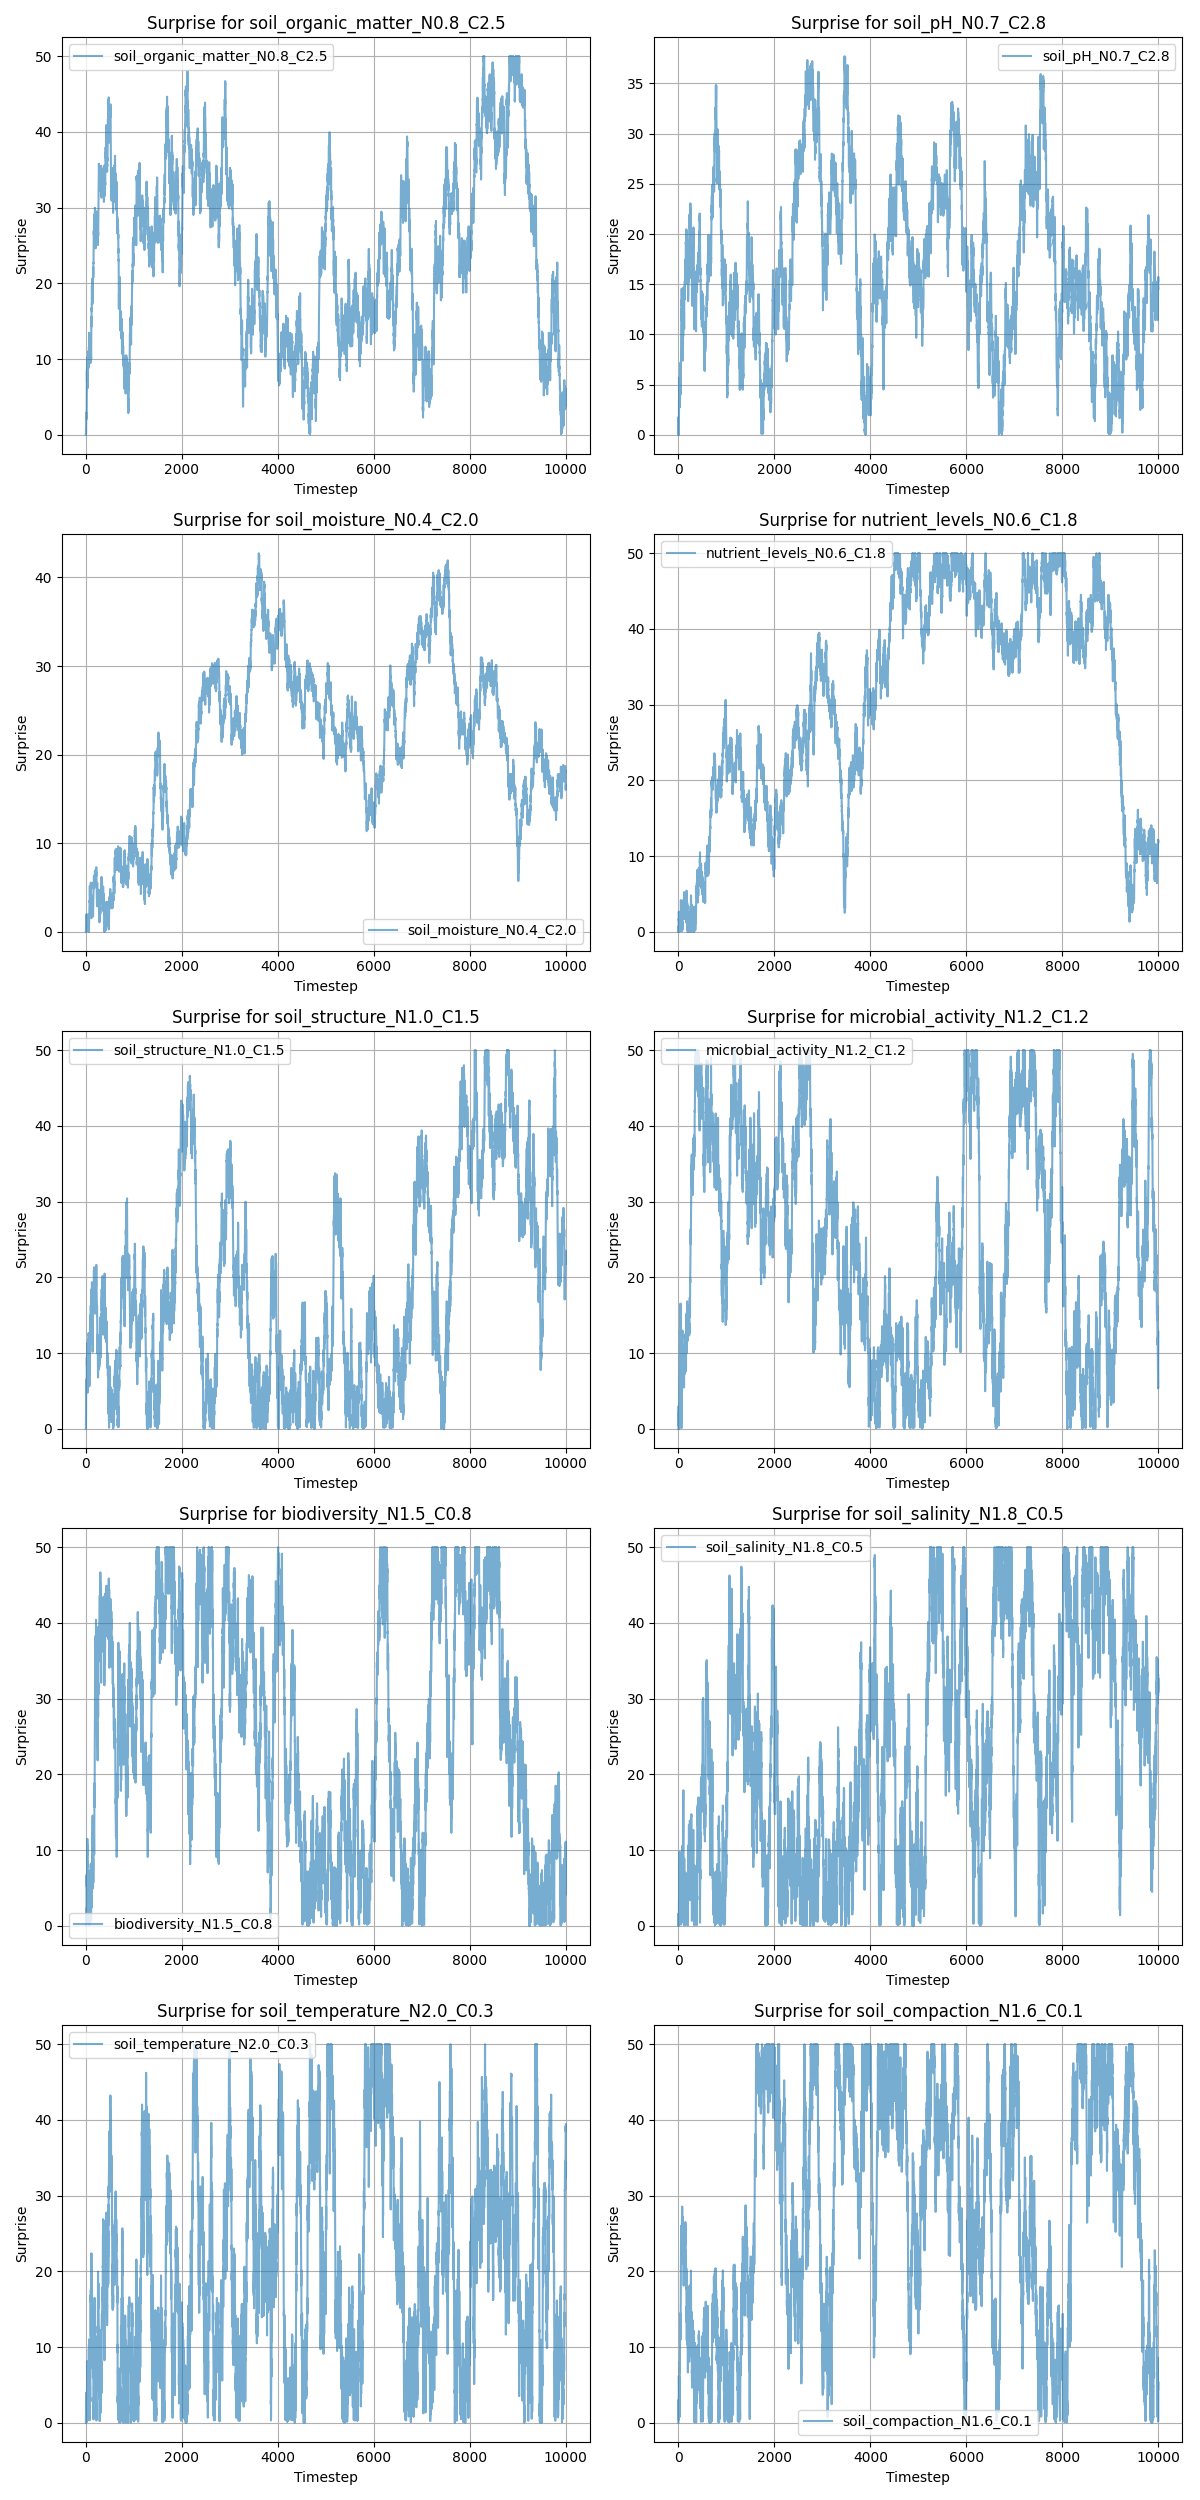
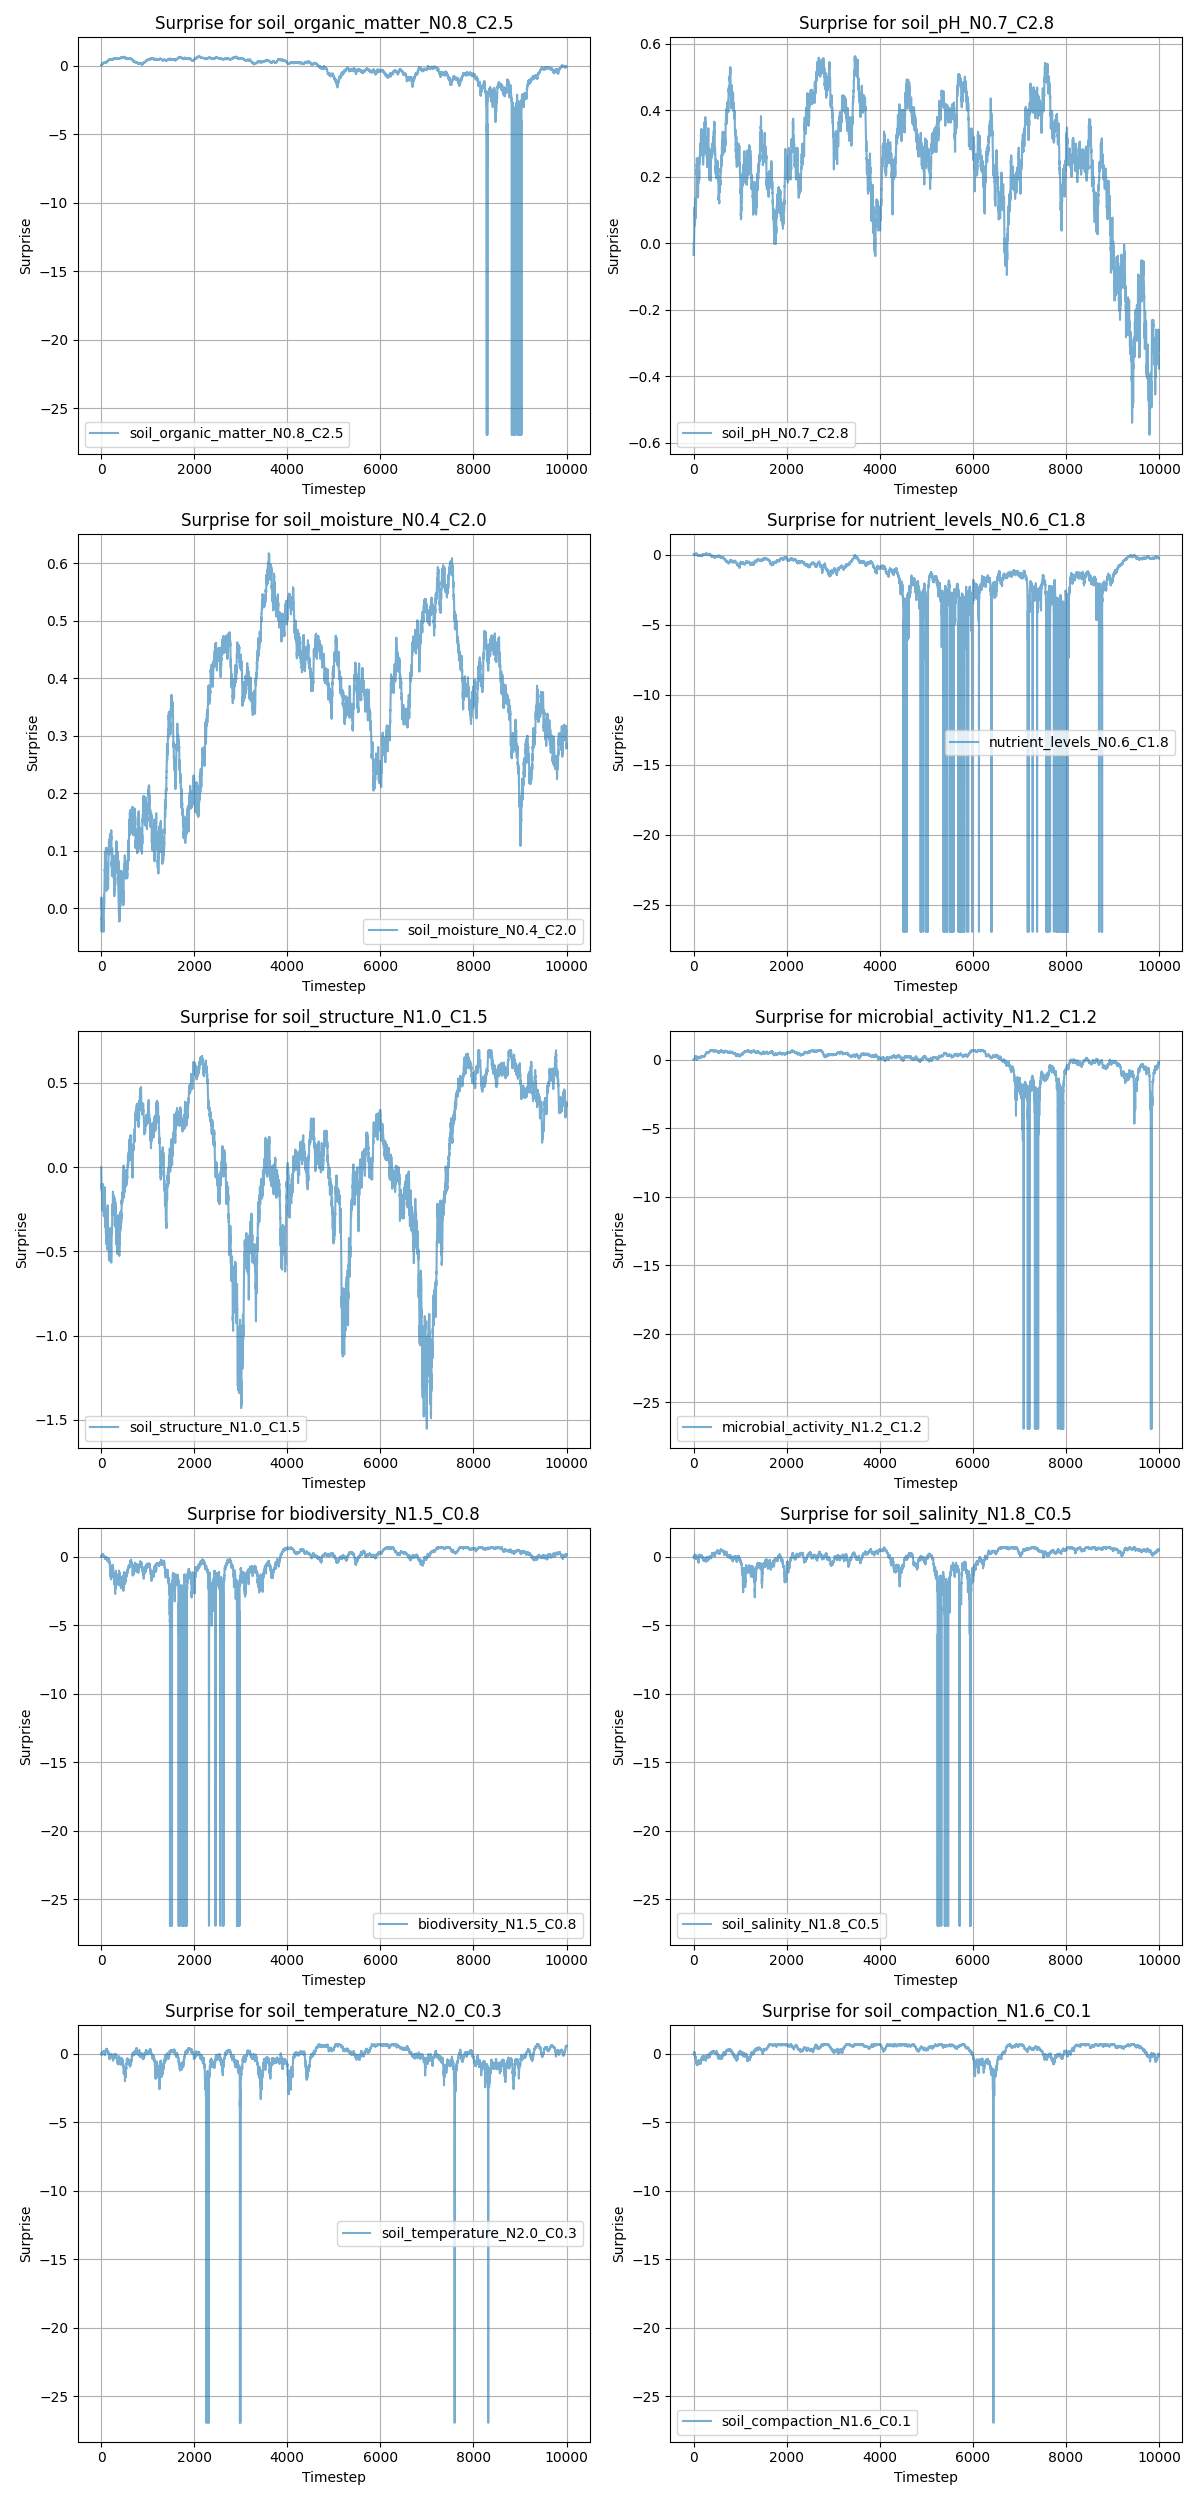
Modified Surprise_Tokens.py (Bayesian surprise)

diff --git a/Scripts/Surprise_Tokens.py b/Scripts/Surprise_Tokens.py
@@ -1,7 +1,7 @@
 """
 This script retrieves the most recent environmental history data from CSV files in 
 the "Outputs" directory and reads ecosystem configuration from a JSON file. 
-It computes surprise values for specified variables based on their constraints and 
+It computes Bayesian surprise values for specified variables based on their constraints and 
 stores these values in a new DataFrame. The script then visualizes the surprise values 
 and saves the plots as PNG files. Finally, it calculates token accumulation based 
 on changes in surprise and generates additional plots for the token history, 
@@ -69,11 +69,8 @@ try:
         for timestep in range(len(env_history)):
             current_value = env_history.iloc[timestep][variable]
             
-            # Compute surprise based on the distance from the median
-            surprise = np.abs(current_value - median_value)  # Absolute difference from the median
-            
-            # Optionally, you can apply a log transformation if needed
-            # surprise = -np.log(surprise + epsilon)  # Uncomment if you want to use log scale
+            # Compute Bayesian surprise (example formula, adjust as needed)
+            surprise = np.log((current_value + epsilon) / (median_value + epsilon))  # Bayesian surprise calculation
             
             surprise_values.append(surprise)
 
@@ -92,7 +89,7 @@ axes = axes.flatten()  # Flatten the axes array for easy indexing
 
 for i, variable in enumerate(surprise_history.columns):
     axes[i].plot(surprise_history.index, surprise_history[variable], label=variable, alpha=0.6)  # Changed to line plot
-    axes[i].set_title(f'Surprise for {variable}')
+    axes[i].set_title(f'Bayesian surprise for {variable}')
     axes[i].set_xlabel('Timestep')
     axes[i].set_ylabel('Surprise')
     axes[i].grid()
